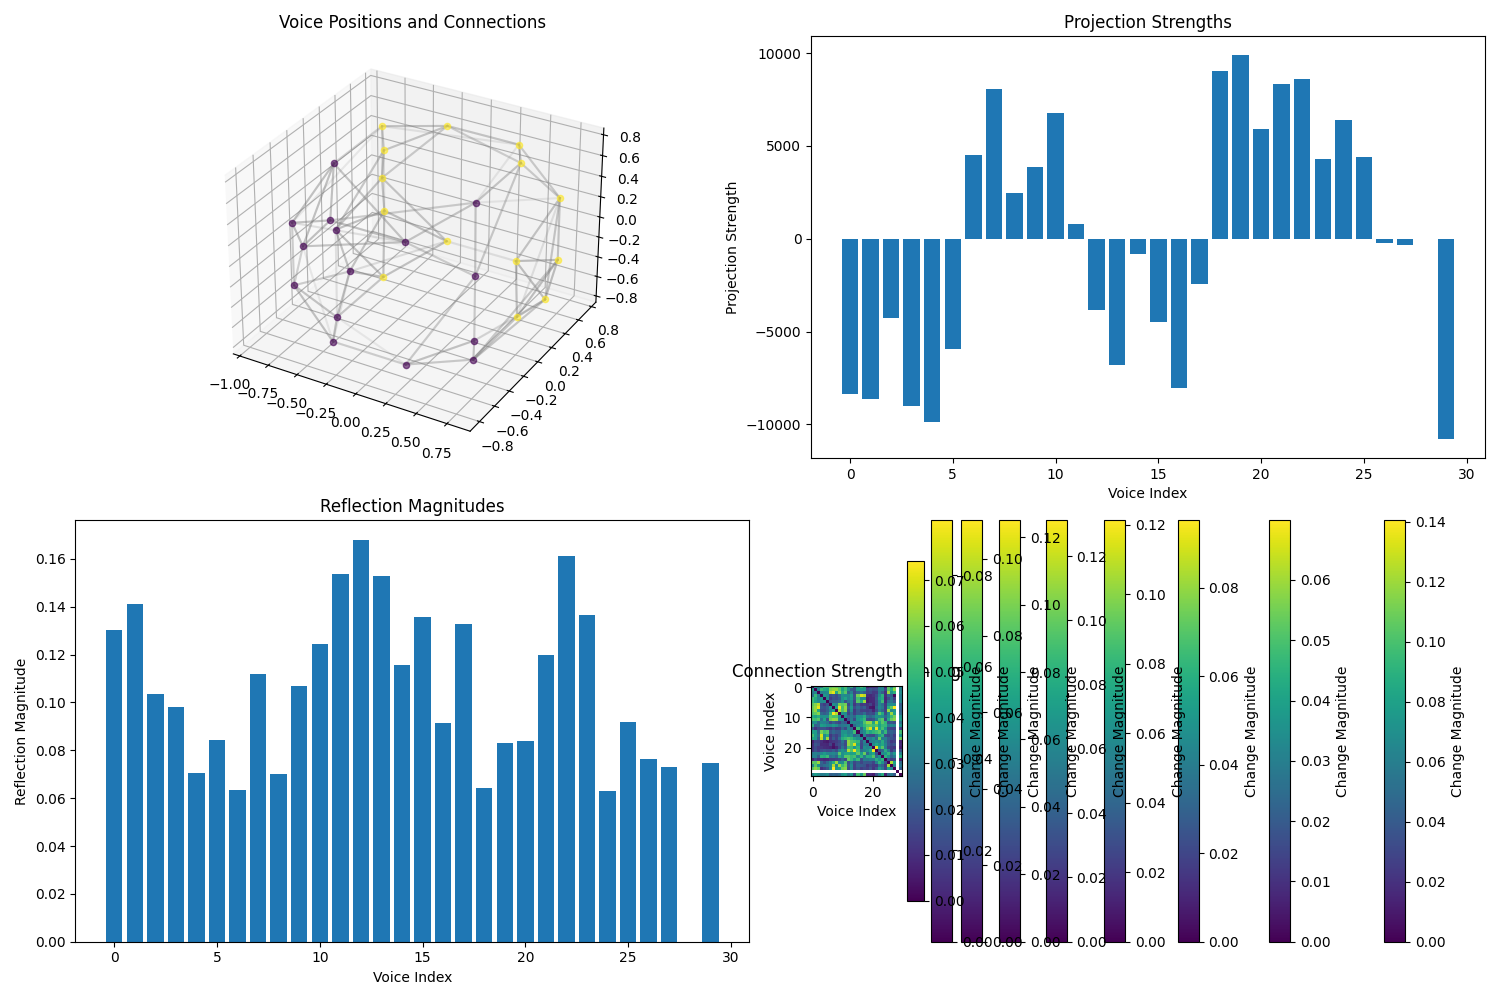
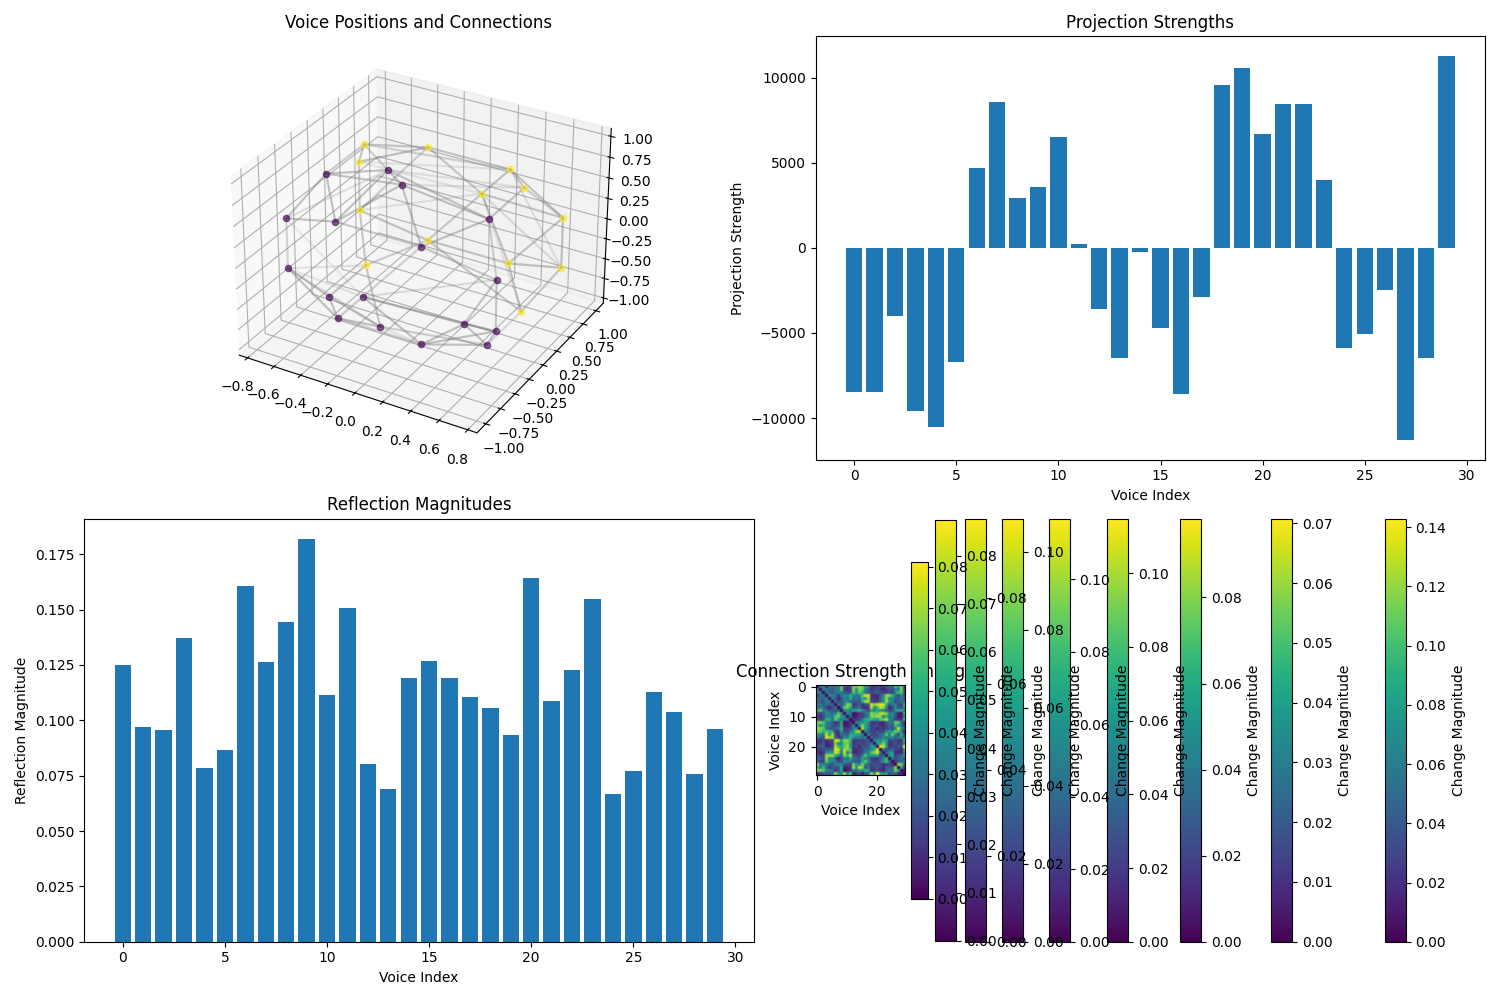
aaaaa yay

diff --git a/git_petals/src/petals/data_structures.py b/git_petals/src/petals/data_structures.py
@@ -1,15 +1,17 @@
 from enum import Enum
-from typing import Dict, List, Optional, Tuple, Union
+from typing import Any, Dict, List, Optional, Tuple, Union
 from dataclasses import dataclass
 
 import torch
 
 UID_DELIMITER = "."
+CHAIN_DELIMITER = "."
 
 class ServerState(str, Enum):
     """State of a server in the network."""
     OFFLINE = "offline"
     ONLINE = "online"
+    JOINING = "joining"
 
 @dataclass
 class ModelInfo:
@@ -54,6 +56,39 @@ class InferenceMetadata:
     max_length: int
     timeout: float
     last_seen: float = 0.0
+
+@dataclass
+class RemoteSpanInfo:
+    """Information about a span of blocks on a remote server."""
+    peer_id: str
+    start: int
+    end: int
+    throughput: float = 0.0
+    latency: float = 0.0
+    last_seen: float = 0.0
+
+    @property
+    def length(self) -> int:
+        return self.end - self.start
+
+@dataclass
+class RemoteModuleInfo:
+    """Information about a remote module."""
+    peer_id: str
+    block_indices: List[int]
+    throughput: float = 0.0
+    latency: float = 0.0
+    last_seen: float = 0.0
+
+@dataclass
+class RPCInfo:
+    """Information about RPC calls."""
+    inference_schema: Tuple[Tuple[Any, ...], Dict[str, Any]]
+    forward_schema: Tuple[Tuple[Any, ...], Dict[str, Any]]
+    backward_schema: Tuple[Tuple[Any, ...], Dict[str, Any]]
+
+ModuleUID = str  # Type alias for module unique identifier
+Handle = int    # Type alias for tensor handle in memory cache
 
 def parse_uid(uid: str) -> Tuple[str, int]:
     """Parse a UID into its components."""

diff --git a/git_petals/src/petals/server/block_functions.py b/git_petals/src/petals/server/block_functions.py
@@ -12,14 +12,14 @@ from hivemind.proto import runtime_pb2
 from hivemind.utils.logging import get_logger
 from hivemind.utils.nested import nested_flatten
 
-from petals.data_structures import Handle, InferenceMetadata
+from petals.data_structures import InferenceMetadata
 from petals.server.backend import TransformerBackend
 from petals.server.task_pool import PrioritizedTaskPool
 from petals.server.task_prioritizer import TaskPrioritizerBase
 from petals.utils.convert_block import QuantType
 from petals.utils.misc import DUMMY, is_dummy
 from petals.utils.packaging import unpack_args_kwargs
-
+Handle = int
 # We prioritize short inference requests and make them use a *merged* inference pool,
 # so they are processed without interruptions and extra overheads
 # TODO: Increase the NF4 threshold once bitsandbytes ships efficient NF4 kernel for parallel forward

diff --git a/git_petals/src/petals/server/memory_cache.py b/git_petals/src/petals/server/memory_cache.py
@@ -116,7 +116,7 @@ class MemoryCache:
 
     async def _schedule_alloc(
         self, alloc_size: int, *descriptors: TensorDescriptor, timeout: Optional[float]
-    ) -> Sequence[Handle]:
+    ) -> Sequence[asyncio.Handle]:
         """
         This method should be called inside asyncio.shield() because:
             - hivemind.utils.enter_asynchronously() does not always release the lock on cancellation
@@ -192,7 +192,7 @@ class MemoryCache:
             self._memory_freed_event.clear()
 
     @contextlib.contextmanager
-    def use_cache(self, *handles: Handle) -> Sequence[torch.Tensor]:
+    def use_cache(self, *handles: asyncio.Handle) -> Sequence[torch.Tensor]:
         """
         Return one or more tensors previously allocated with allocate_cache,
 

diff --git a/git_petals/src/petals/server/handler.py b/git_petals/src/petals/server/handler.py
@@ -2,6 +2,7 @@ from __future__ import annotations
 
 import asyncio
 import contextlib
+from dataclasses import dataclass
 import multiprocessing as mp
 import sys
 from enum import Enum

diff --git a/README.md b/README.md
@@ -21,12 +21,13 @@ The primary way to experience the enhanced features, including the dynamic visua
 # Clone this repository (if you haven't already)
 # git clone https://github.com/yourusername/petals-metal
 # cd petals-metal
-
+# Install UV package manager (faster, stronger, harder, papa john)
+command -v uv || brew install uv
 # Install dependencies (ensure pyglet is included)
-pip install -r requirements.txt
+uv pip install -r requirements.txt
 
 # Run the pattern evolution swarm demo with Pyglet visualization
-python swarm_vignettes.py
+uv run python swarm_vignettes.py
 ```
 
 The demo will automatically:
